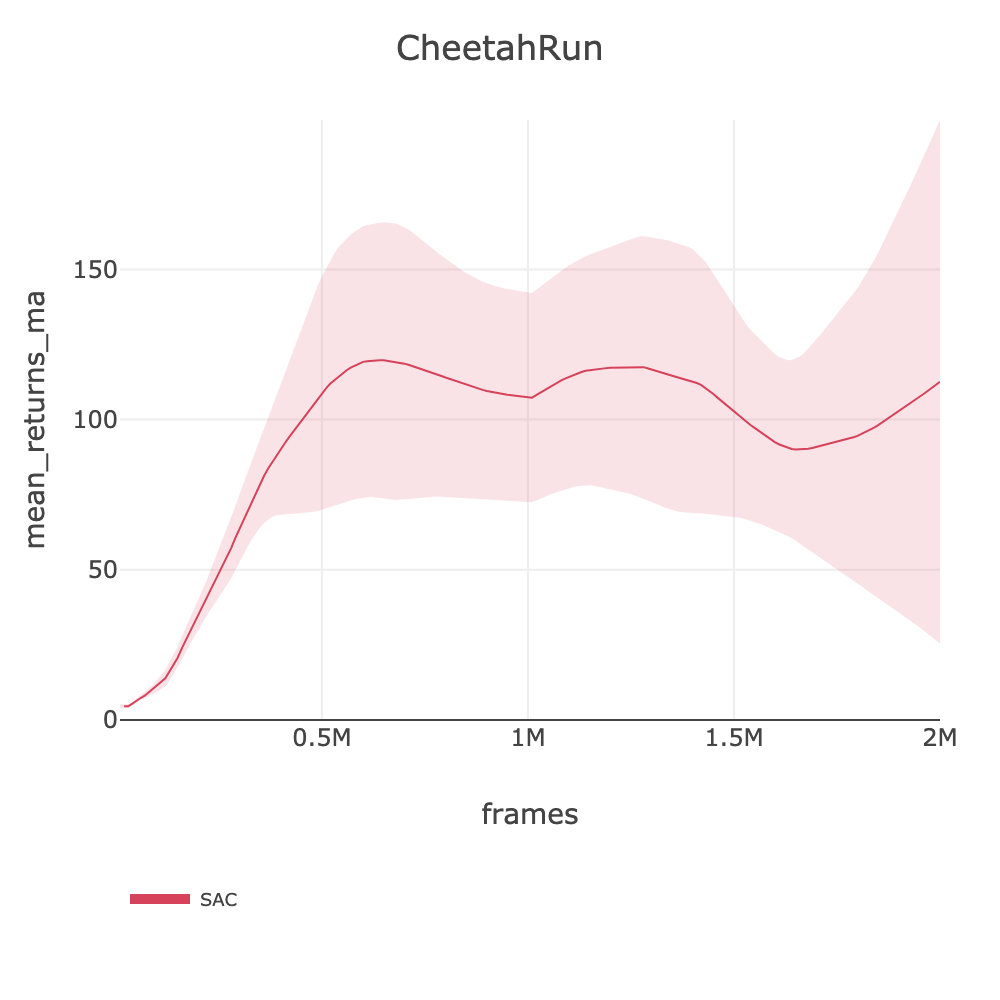
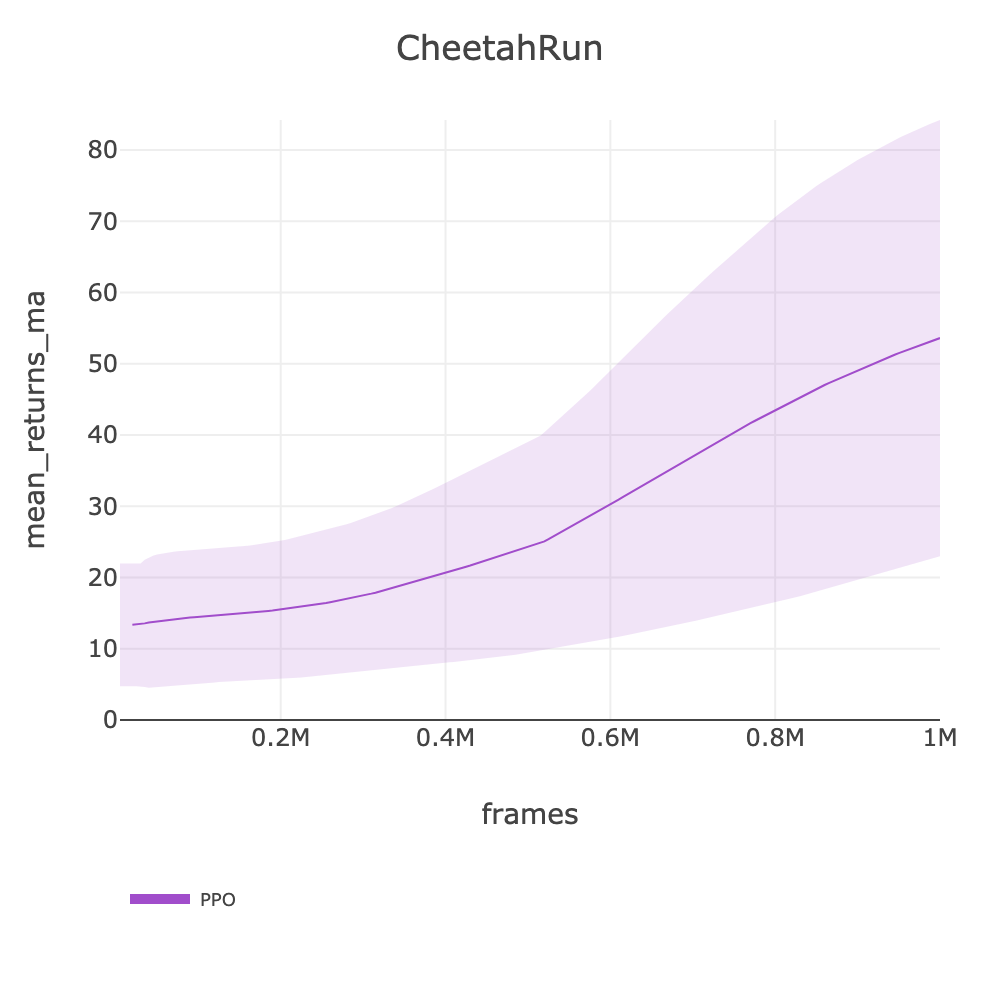
feat: Phase 5 CheetahRun PPO baseline (53.61)

diff --git a/docs/BENCHMARKS.md b/docs/BENCHMARKS.md
@@ -785,7 +785,7 @@ source .env && slm-lab run-remote --gpu -s env=playground/CartpoleBalance -s max
 | Environment | PPO | SAC | HF Data |
 |-------------|-----|-----|---------|
 | playground/CartpoleBalance | 709.15 | - | [ppo_playground_arc_cartpolebalance_2026_03_06_094302](https://huggingface.co/datasets/SLM-Lab/benchmark-dev/tree/main/data/ppo_playground_arc_cartpolebalance_2026_03_06_094302) |
-| playground/CheetahRun | - | 112.59 | [sac_playground_arc_cheetahrun_2026_03_06_094013](https://huggingface.co/datasets/SLM-Lab/benchmark-dev/tree/main/data/sac_playground_arc_cheetahrun_2026_03_06_094013) |
+| playground/CheetahRun | 53.61 | 112.59 | [ppo](https://huggingface.co/datasets/SLM-Lab/benchmark-dev/tree/main/data/ppo_playground_arc_cheetahrun_2026_03_06_134309) [sac](https://huggingface.co/datasets/SLM-Lab/benchmark-dev/tree/main/data/sac_playground_arc_cheetahrun_2026_03_06_094013) |
 | playground/HumanoidWalk | - | - | - |
 | playground/AcrobotSwingup | - | 3.46 | [sac_playground_arc_fast_acrobotswingup_2026_03_06_111158](https://huggingface.co/datasets/SLM-Lab/benchmark-dev/tree/main/data/sac_playground_arc_fast_acrobotswingup_2026_03_06_111158) |
 | playground/BallInCup | - | - | - |
